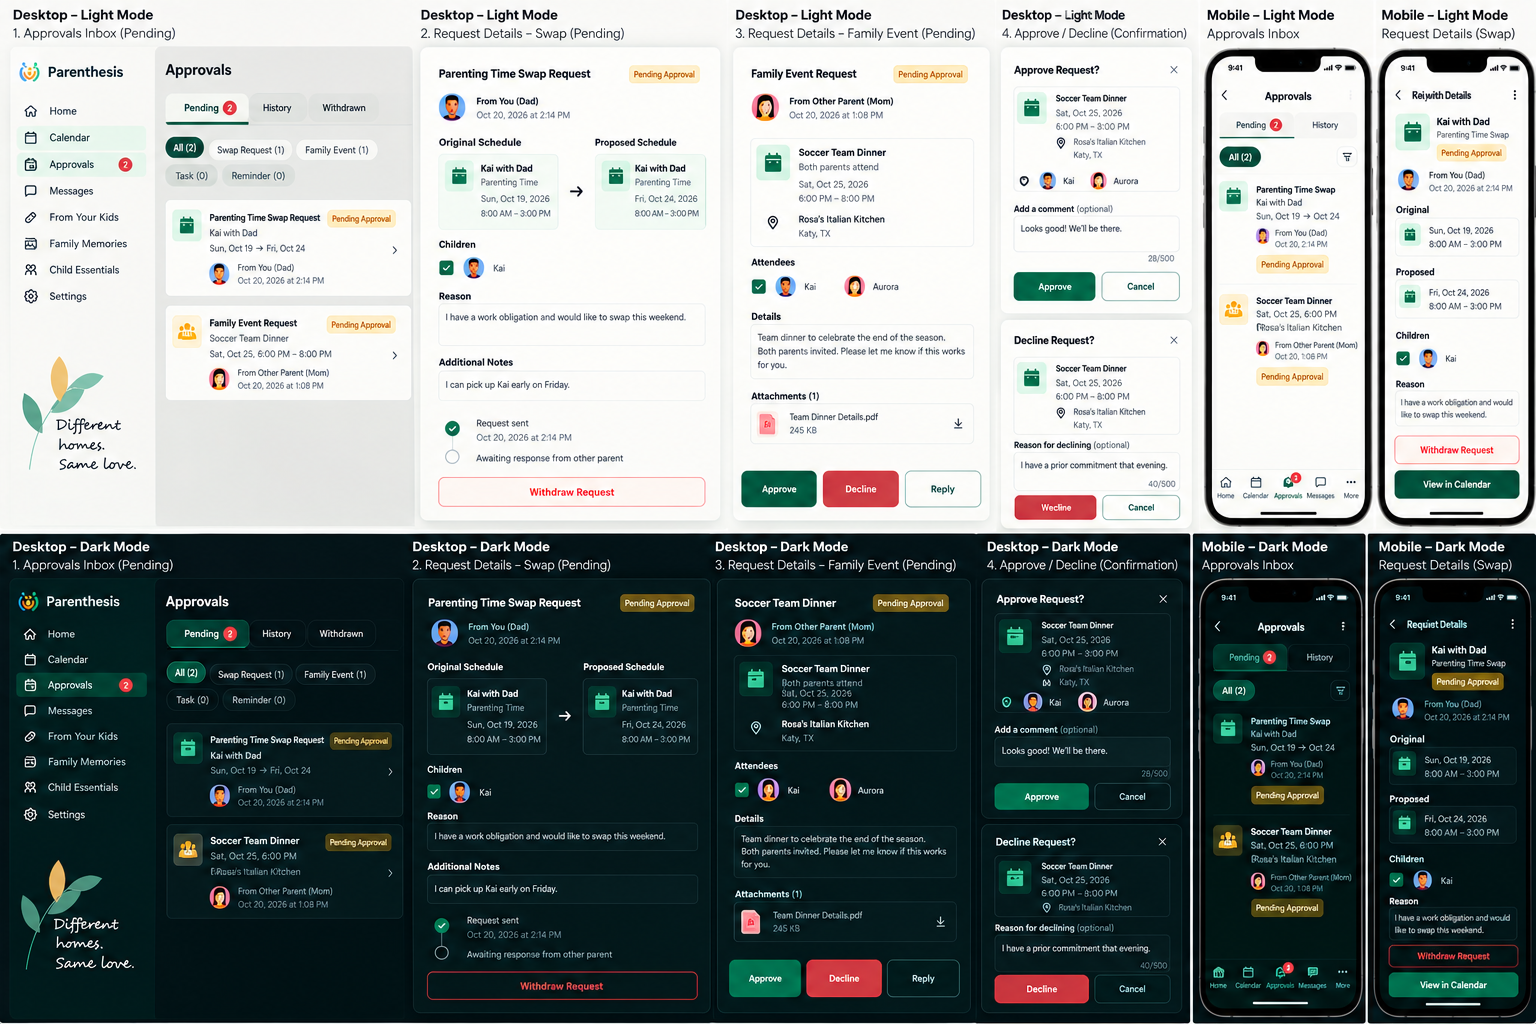
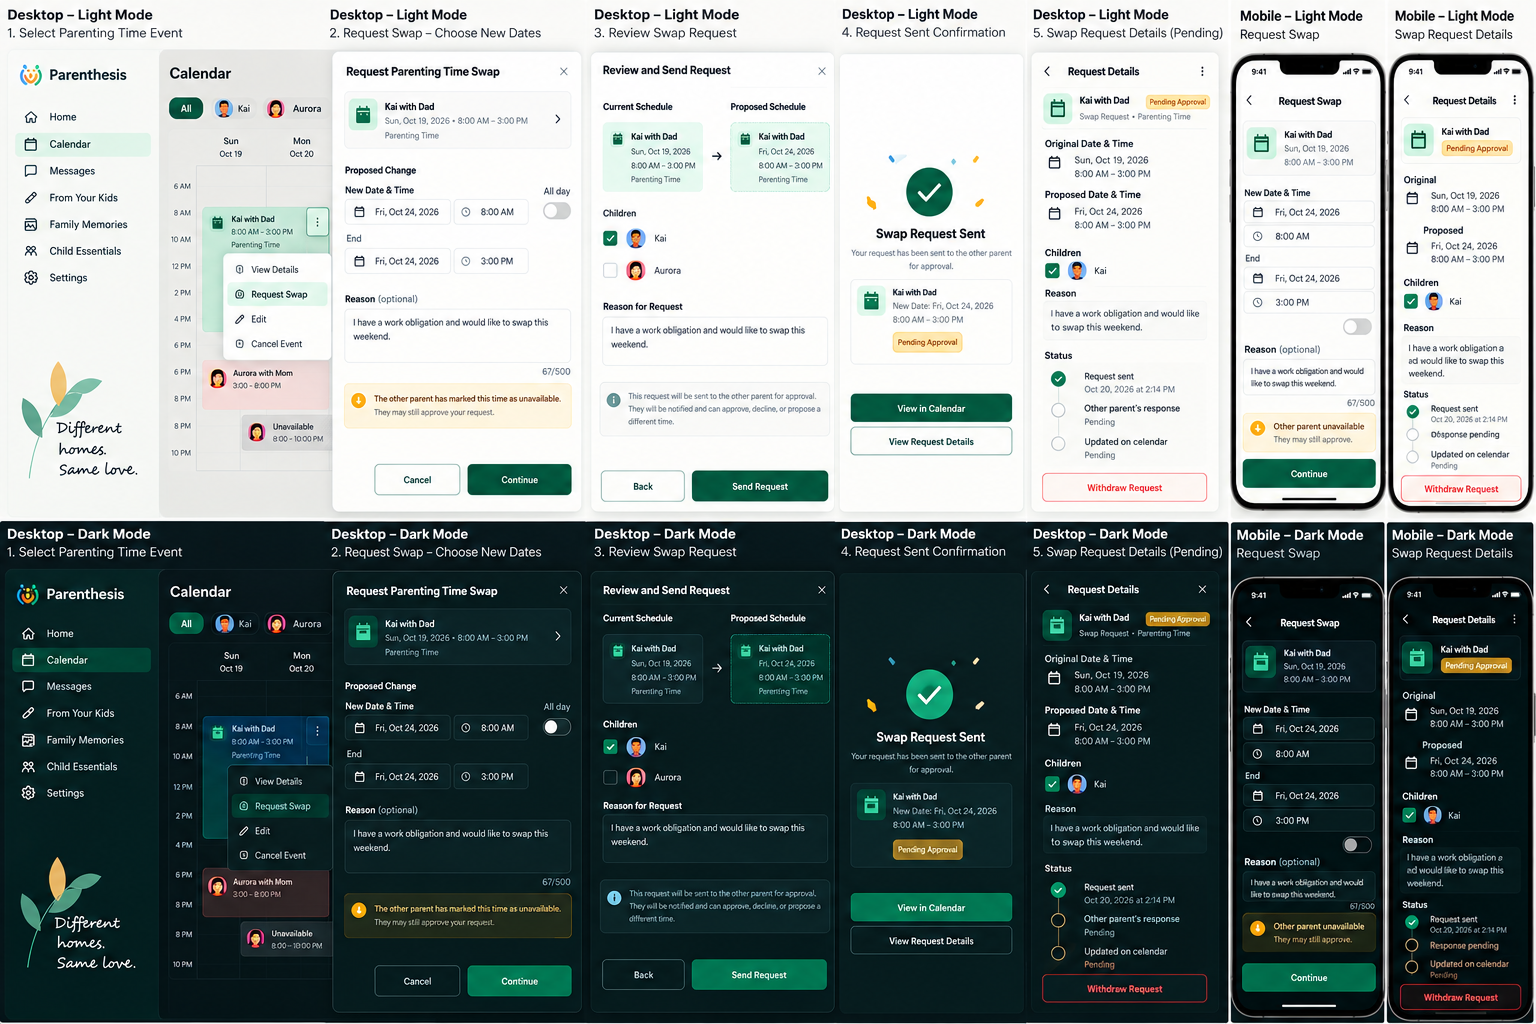
design(calendar): approved Request Swap board (#157)
* feat(calendar): update calendar request swap composite image

* docs(calendar): Request Swap board uploaded; handoff and TODO updated

Claude-Session: https://claude.ai/code/session_01Y1h8fV88dDjPE3X7eCNt2i

---------

Changed region(s): [[0.0, 0.0, 1.0, 1.0], [0.0, 0.3438, 0.0938, 0.4688], [0.0312, 0.8438, 0.0938, 0.9688]]

diff --git a/docs/design/handoffs/2026-10-20-calendar.md b/docs/design/handoffs/2026-10-20-calendar.md
@@ -66,7 +66,14 @@ These settle the "Proposed elements" above for v0.3.0:
 - Flow: select an existing parenting-time event → Request Swap → propose replacement dates/times → compare original and proposed schedule → review and send → request-sent confirmation → pending request details.
 - The other parent's unavailability triggers a gentle, **non-blocking** warning. Present **Send Anyway** and **Choose Different Dates** as explicit choices. The generated board omitted this exact two-choice presentation; implement the requirement, not the omission.
 - Other parent's approval is required; no automatic parenting-time changes before approval.
-- Proposed composite upload: `docs/design/assets/calendar/calendar-request-swap-composite.png`.
+- Board: `docs/design/assets/calendar/calendar-request-swap-composite.png` (October 21, 2026): select the parenting-time
+  event → Request Swap → new date and time with an optional reason → review (current vs proposed) → "Swap Request Sent"
+  → pending details with Withdraw. Where it differs from the rules above, the rules win:
+  - The unavailable warning on the board is only a note; implement the explicit **Send Anyway** and **Choose Different
+    Dates** choices.
+  - The board's "approve, decline, or propose a different time" wording: counter-proposals aren't a feature. Say
+    "approve or decline".
+  - The status timeline's "Updated on calendar" step follows approval automatically; there's nothing to do by hand.
 
 ### Approvals Inbox — visual direction approved with corrections
 - Show pending requests, original → proposed details, approve, decline with optional comment, withdraw own requests, and History showing approved/declined/withdrawn outcomes with attribution and dates.
@@ -108,7 +115,7 @@ The boards are committed in `docs/design/assets/calendar/` (each 1536×1024, des
 | Joint Family Event approval | `calendar-joint-family-event-approval-composite.png` |
 | Unavailability and recurrence | `calendar-unavailability-recurrence-composite.png` |
 | Calendar states | `calendar-states-composite.png` |
-| Request Swap | `calendar-request-swap-composite.png` — **wrong image:** byte-identical to the Approvals Inbox board. The approved Request Swap board still needs uploading. |
+| Request Swap | `calendar-request-swap-composite.png` (uploaded by the owner, October 21, 2026) |
 
 The boards are visual direction only. Where a board disagrees with the written rules in this handoff, the written
 rules win, for example: Month/Week/Day labels (use Week, Month, List), the "Requires Approval?" switch, checkmarks on

diff --git a/TODO.md b/TODO.md
@@ -259,14 +259,13 @@ that points back here.
     hatched, "Change pending", "Confirmed before your co-parent joined", Unavailable in grey with private notes kept
     private; event details with Cancel (approval-gated for parenting time and family events); Add Event with the
     block-highlight type cards; calendar requests in the approvals inbox, linked from Calendar.
-  - [ ] Frontend: edit an event (and its approval), Request Swap (waits for the real board), recurring unavailable
+  - [ ] Frontend: edit an event (and its approval), Request Swap (board uploaded October 21, 2026), recurring unavailable
     time with This event / This and following / All events, tasks and reminders, and declined requests on the
     calendar.
   - [ ] Frontend: the dashboard's live data source (it still shows sample data in development).
   - [x] Design handoff and boards: `docs/design/handoffs/2026-10-20-calendar.md` and `docs/design/assets/calendar/`
     (#148), moved from `release/0.4.0` to `release/0.3.0` by owner decision (October 21, 2026).
-    - [ ] **Owner:** upload the approved Request Swap board. `calendar-request-swap-composite.png` is currently a copy
-      of the Approvals Inbox board.
+    - [x] **Owner:** uploaded the approved Request Swap board (October 21, 2026).
     - [x] **Owner decisions** (October 21, 2026, recorded in the handoff): no attachments in v0.3.0; shared tasks
       with no assignee that complete when the last required item is ticked (or **Mark done** without a checklist);
       reminders repeat but have no location; either parent edits or deletes tasks and reminders at once.
